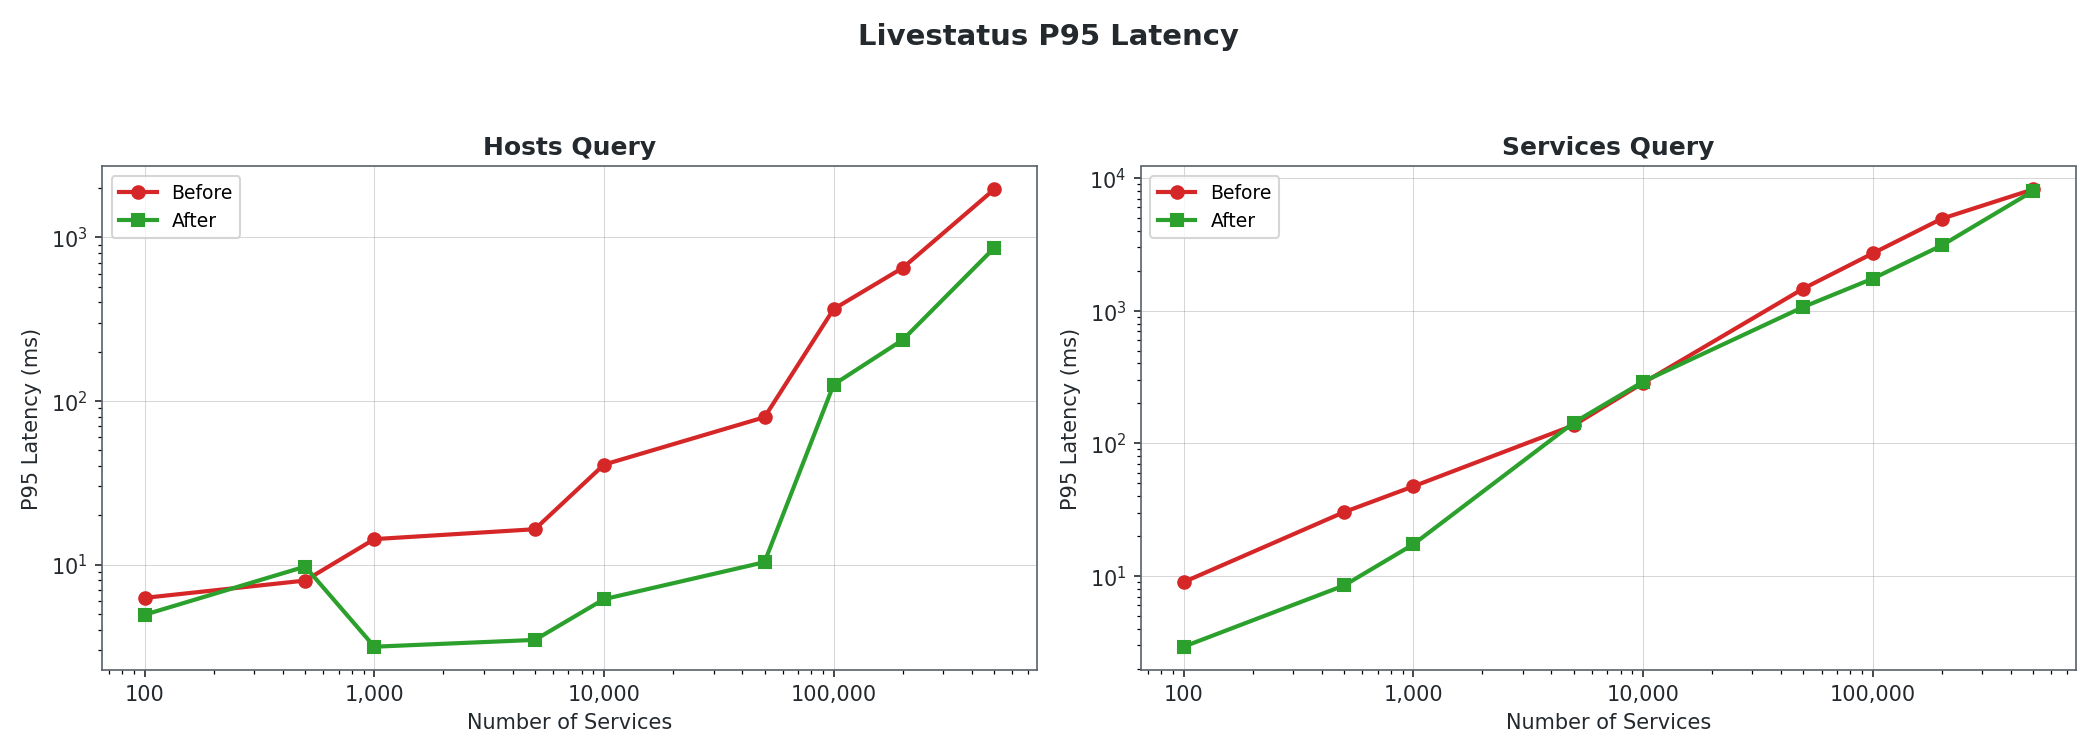
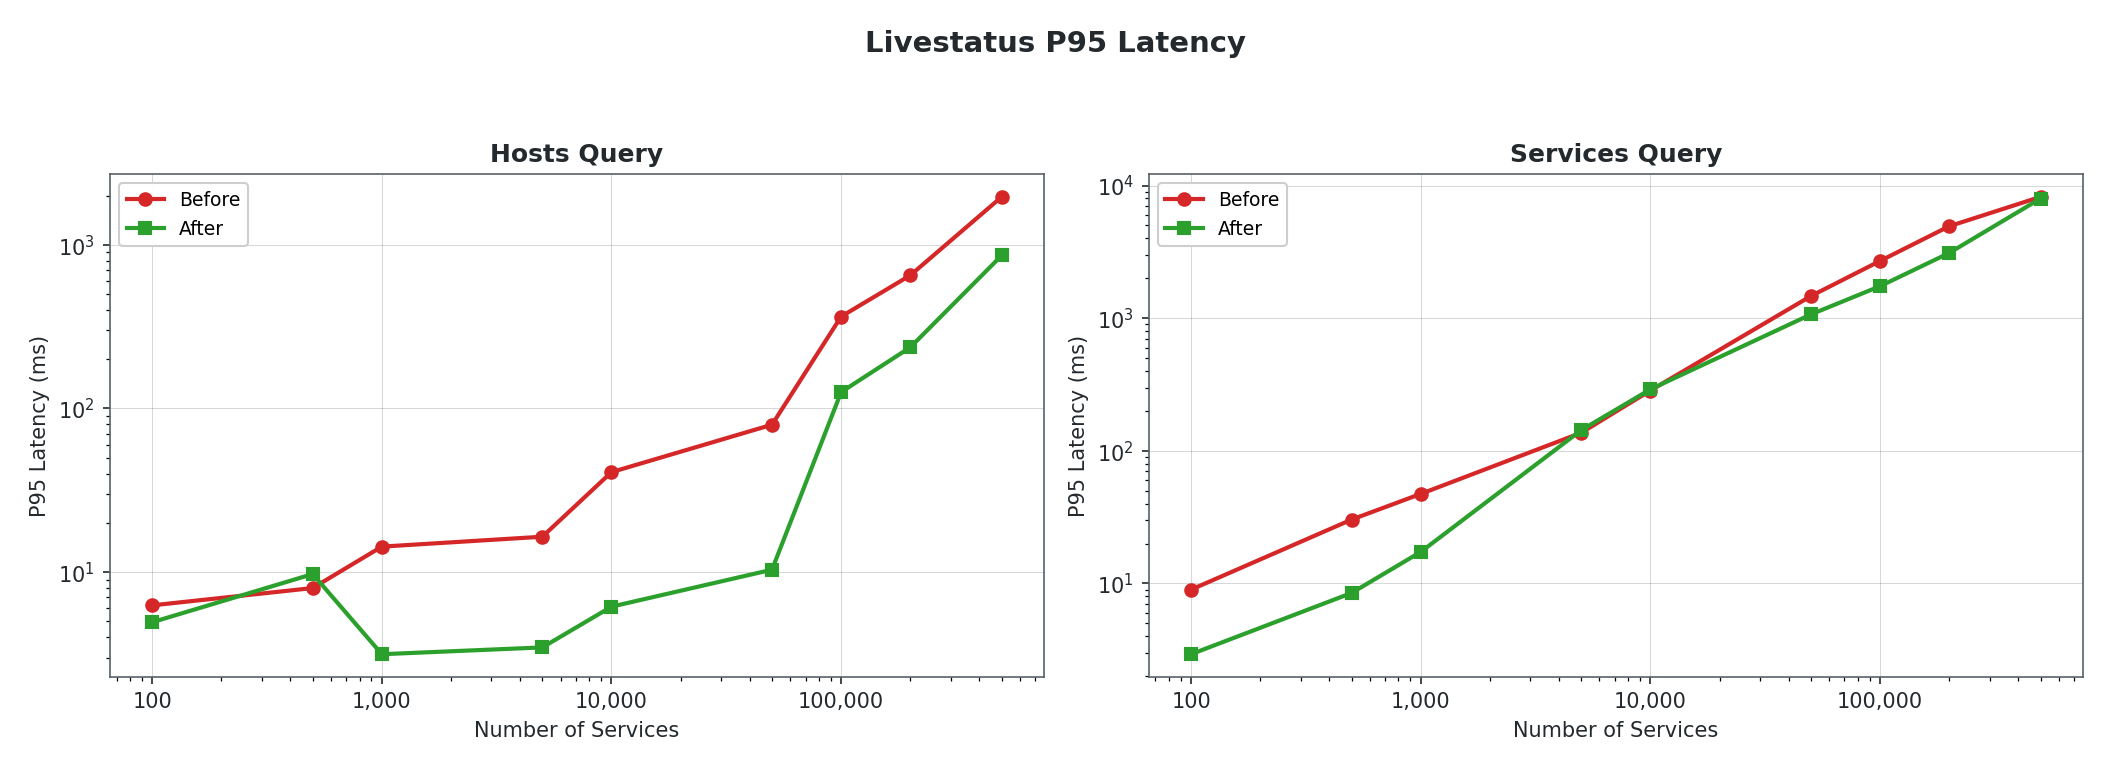
Fix graph readability on dark GitHub themes
Add semi-transparent white background to graph axes and figure so text
is readable on both light and dark GitHub themes.

diff --git a/bench/plot_readme.py b/bench/plot_readme.py
@@ -8,8 +8,6 @@ matplotlib.use('Agg')
 import matplotlib.pyplot as plt
 import matplotlib.ticker as ticker
 
-LIGHT_BG = '#f6f8fa'  # GitHub light mode card bg — used as subtle reference only
-
 def read_csv(path):
     with open(path) as f:
         return list(csv.DictReader(f))
@@ -18,8 +16,9 @@ def parse(rows, key):
     return [float(r[key]) for r in rows]
 
 def style_ax(ax):
-    """Style axes for transparent-bg README graphs."""
-    ax.set_facecolor('none')
+    """Style axes with semi-transparent white fill so text is readable on both
+    GitHub light and dark themes."""
+    ax.set_facecolor((1, 1, 1, 0.85))
     for spine in ax.spines.values():
         spine.set_color('#586069')
         spine.set_linewidth(0.8)
@@ -30,8 +29,8 @@ def style_ax(ax):
     ax.grid(True, alpha=0.25, color='#586069', linewidth=0.5)
 
 def save(fig, path):
-    fig.patch.set_alpha(0.0)
-    fig.savefig(path, dpi=150, transparent=True, bbox_inches='tight', pad_inches=0.15)
+    fig.patch.set_facecolor((1, 1, 1, 0.85))
+    fig.savefig(path, dpi=150, bbox_inches='tight', pad_inches=0.2)
     plt.close(fig)
     print(f"  Saved {path}")
 
@@ -61,7 +60,7 @@ def main():
     ax.set_title('Check Throughput', fontsize=13, fontweight='bold')
     ax.set_xlabel('Number of Services')
     ax.set_ylabel('Checks/sec')
-    ax.legend(loc='best', framealpha=0.8, fontsize=9)
+    ax.legend(loc='best', framealpha=0.95, fontsize=9)
     ax.xaxis.set_major_formatter(ticker.FuncFormatter(lambda x, _: f'{x:,.0f}'))
     save(fig, os.path.join(out, "check_throughput.png"))
 
@@ -76,7 +75,7 @@ def main():
     ax.set_title('Memory Usage (RSS)', fontsize=13, fontweight='bold')
     ax.set_xlabel('Number of Services')
     ax.set_ylabel('MB')
-    ax.legend(loc='best', framealpha=0.8, fontsize=9)
+    ax.legend(loc='best', framealpha=0.95, fontsize=9)
     ax.xaxis.set_major_formatter(ticker.FuncFormatter(lambda x, _: f'{x:,.0f}'))
     save(fig, os.path.join(out, "memory_usage.png"))
 
@@ -89,7 +88,7 @@ def main():
     ax.set_title('Startup Time', fontsize=13, fontweight='bold')
     ax.set_xlabel('Number of Services')
     ax.set_ylabel('ms')
-    ax.legend(loc='best', framealpha=0.8, fontsize=9)
+    ax.legend(loc='best', framealpha=0.95, fontsize=9)
     ax.xaxis.set_major_formatter(ticker.FuncFormatter(lambda x, _: f'{x:,.0f}'))
     save(fig, os.path.join(out, "startup_time.png"))
 
@@ -110,7 +109,7 @@ def main():
         ax.set_title(title, fontsize=12, fontweight='bold')
         ax.set_xlabel('Number of Services')
         ax.set_ylabel('Requests/sec')
-        ax.legend(loc='best', framealpha=0.8, fontsize=9)
+        ax.legend(loc='best', framealpha=0.95, fontsize=9)
         ax.xaxis.set_major_formatter(ticker.FuncFormatter(lambda x, _: f'{x:,.0f}'))
 
     fig.tight_layout(rect=[0, 0, 1, 0.93])
@@ -132,7 +131,7 @@ def main():
         ax.set_title(title, fontsize=12, fontweight='bold')
         ax.set_xlabel('Number of Services')
         ax.set_ylabel('P95 Latency (ms)')
-        ax.legend(loc='best', framealpha=0.8, fontsize=9)
+        ax.legend(loc='best', framealpha=0.95, fontsize=9)
         ax.xaxis.set_major_formatter(ticker.FuncFormatter(lambda x, _: f'{x:,.0f}'))
 
     fig.tight_layout(rect=[0, 0, 1, 0.93])
